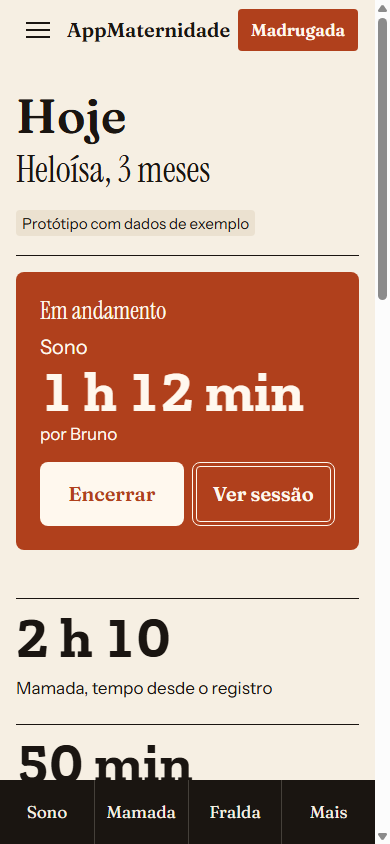
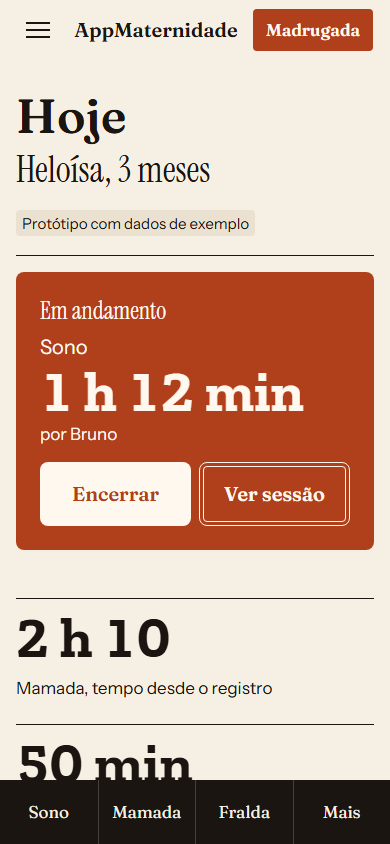
Retake the 8 screen captures without the browser scrollbar

diff --git a/web/public/telas/FONTE.md b/web/public/telas/FONTE.md
@@ -2,16 +2,18 @@
 
 São capturas do **nosso** site (AppMaternidade), não imagem de fora. Janela inteira em 1440×900 (computador) e 390×844 (celular), movimento reduzido, dados de exemplo do protótipo.
 
-- **SHA de origem:** `ab77f69b1e2e6d893fa85adf58469b9b4f91e409` (ramo do cartão 44d-2, área logada refeita; aprovada visualmente pelo avaliador com notas de 8,0 a 8,3). Esse SHA ainda não está em `int/refazer`: o cartão 44d-6 troca estas capturas pelas do HEAD final.
-- **Arquivos de origem:** `MAT-44d/evidencias/aceite_44d2/telas_v2/<nome>_janela.png`, copiados sem alteração de bytes, só renomeados (`_` vira `-`).
+- **SHA de origem:** `5bde20e9c0148e41cb57a5b4958c5795d6658c3b` (ramo do cartão 44d-5, que contém o `int/refazer` em `eda47ae`, com a área logada refeita da 44d-2). As telas Hoje e Sessão vêm desse código, e não do `ab77f69` da primeira entrega.
+- **Hora da captura:** 10/11/2026, 18:37:11 (UTC-03:00), em `http://127.0.0.1:5265/` (Vite deste worktree) e Chrome headless 157, pelo `.oc/telas_fonte.mjs` do cartão (CDP, `Page.captureScreenshot` da janela).
+- **Sem barra de rolagem:** só na captura, um estilo injetado no navegador esconde a barra (`scrollbar-width: none` e `::-webkit-scrollbar { display: none }`); o CSS do produto não mudou. `innerWidth` é igual a `clientWidth` (1440 e 390): nenhuma largura é comida pela barra.
+- **Troca (rodada visual 1, 10/11):** estas oito imagens substituem as de 16:34, que vinham do `ab77f69` com a barra do navegador dentro do aparelho.
 
 | arquivo | tela | tema | tamanho | sha256 |
 |---|---|---|---|---|
-| hoje-claro-1440.png | Hoje | claro | 1440×900 | 719e3958688dea31fc5562d833c6408d73a8b395ffe997b5f46078aa7f9ce17a |
-| hoje-claro-390.png | Hoje | claro | 390×844 | 240981264d4f4147d03ef72eae426495b9dd133f63187ff3b3a8f82cb5a41540 |
-| hoje-madrugada-1440.png | Hoje | madrugada | 1440×900 | cf22668f126cf5e24482b0e584e418e1c802ebb012e36c086a0819dee2dca5a7 |
-| hoje-madrugada-390.png | Hoje | madrugada | 390×844 | 3f3c1265743ffeb695a006bb0cdd35e4883bdff6c91db6671361d9b1a3ccc0e4 |
-| sessao-claro-1440.png | Sessão | claro | 1440×900 | e0791fbdaff6bdbcffcb579731a7e796086384aa6c2781b40d287e9940c21046 |
-| sessao-claro-390.png | Sessão | claro | 390×844 | de021559f01c5b1ec17ef1f1daf4bc002006bb9e247cf0941b4bc6c4235b8c07 |
-| sessao-madrugada-1440.png | Sessão | madrugada | 1440×900 | cce1d56d25836161162dba0c6f10ce4663e21d7bb0704a537478379aede14750 |
-| sessao-madrugada-390.png | Sessão | madrugada | 390×844 | cab1fda8d20b8929a09faa6a13916649c9d1dbbedfbfb0a9c0fe3c0d190abc92 |
+| hoje-claro-1440.png | Hoje | claro | 1440×900 | 006c1c79f4f3c37386a6863b34416b09e8ef3cb48d4966308fd0a21bb28234ef |
+| hoje-claro-390.png | Hoje | claro | 390×844 | 54ac64bbc4292377924564577861eb37396f69cd60f3604946d7e041576a0eba |
+| hoje-madrugada-1440.png | Hoje | madrugada | 1440×900 | 6ea0969be36335f8ae49486be4fdf19a8594d5e78beb2a37a38bcf3596ccba1d |
+| hoje-madrugada-390.png | Hoje | madrugada | 390×844 | 25cfd79068ff9a9e95779564aefea94c2d886220abc8556ec10076ef56790f42 |
+| sessao-claro-1440.png | Sessão | claro | 1440×900 | 1f709f645ab0d0680cdd487480416ceb586bf1a37dfa5a5c870c60dbda56b2a6 |
+| sessao-claro-390.png | Sessão | claro | 390×844 | e33fcc216092fa3eca191fd7dbd283172747dbae49b0c1dd20063a8fac1a317f |
+| sessao-madrugada-1440.png | Sessão | madrugada | 1440×900 | b7fd7bd79464d0ad95e7534af1ad1b26f5fb65052b3f9514b1667ec56359e8e4 |
+| sessao-madrugada-390.png | Sessão | madrugada | 390×844 | 35f0a5824db3573345443ba3ddb4a7a2de6c6a49a0c246c6a241df7b443a2d9e |
